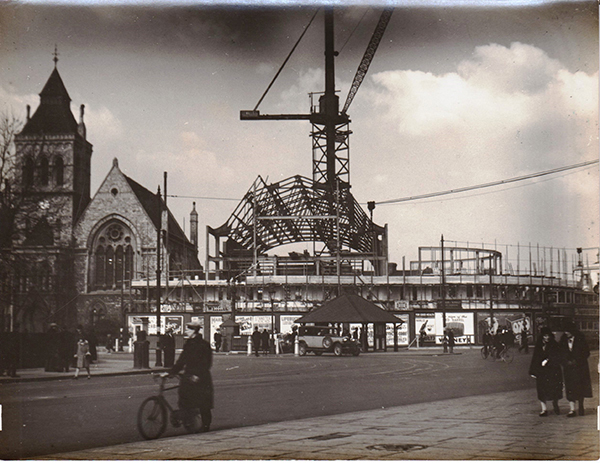
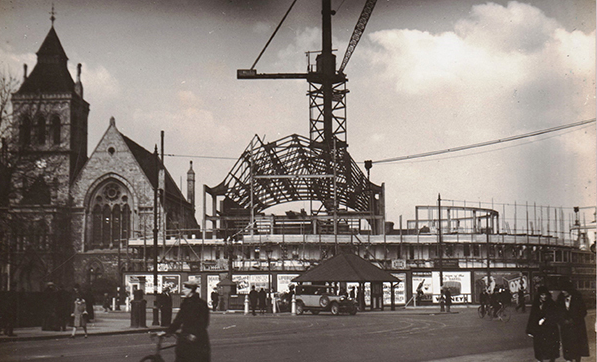
vegalite config

diff --git a/IAT355/broadwayblackout.html b/IAT355/broadwayblackout.html
@@ -6,7 +6,6 @@
     <script src="https://cdn.jsdelivr.net/npm/vega@5"></script>
     <script src="https://cdn.jsdelivr.net/npm/vega-lite@5"></script>
     <script src="https://cdn.jsdelivr.net/npm/vega-lite-api@5.6.0"></script>
-    <script src="https://cdn.jsdelivr.net/npm/vega-tooltip"></script>
     <script src="https://cdn.jsdelivr.net/npm/vega-embed@6"></script>
     <script src="https://unpkg.com/lenis@1.3.21/dist/lenis.min.js"></script>
 
@@ -73,27 +72,78 @@
     </section>
     <section id="P1">
       <p class="question-text">
-        How has the popularity of Broadway shows shifted across decades from
-        1900-2020?
+        How has the popularity of Broadway shows shifted across 1900-2020?
       </p>
       <p class="information-text">
         Broadway saw a surge in the volume of titles opened in the 1900s and
         achieved its all time peak during the 1920s, before meeting a sharp
         decline in the subsequent decades.
       </p>
-      <div id="P1-1"></div>
+
+      <div class="graph-container">
+        <div id="P1-1"></div>
+      </div>
+
+      <!-- <div class="overlay-box-container">
+          <div class="overlay-box-wrapper">
+            <div class="overlay-element">
+              <img src="src/p1-card1.png" />
+            </div>
+            <div class="overlay-element">
+              <p>
+                The surge in openings during the 1900s can be partly attributed
+                to a wave of new theaters being built in the Broadway district,
+                including the Republic in 1900, the Lyric and New Amsterdam in
+                1903, and the Lew Fields in 1904 (Gillespie).
+              </p>
+            </div>
+          </div>
+        </div> -->
     </section>
     <section id="P2">
       <p class="question-text">
-        Total showings by show type in Broadway across 2 centuries
+        Total Showings by Show Type on Broadway (1850s–2010s)
       </p>
       <p class="information-text">
         The musical is widely regarded as a "quintessentially American art form"
         (Hodge 2020, p.5), born from an amalgamation of British, French, and
         varied popular entertainment traditions.
       </p>
+      <!-- dot graph -->
       <p class="information-text">View genre by popularity (Interactive)</p>
       <div id="P2-1"></div>
+
+      <p class="question-text">
+        Guess the proportion of each show type, then reveal the actual data!
+      </p>
+      <div id="sliders">
+        <!-- prettier-ignore -->
+        <label>Musical: <input type="range" id="musical" min="0" max="100000" value="50000"> <span id="musicalVal">50000</span></label
+        ><br />
+        <!-- prettier-ignore -->
+        <label>Play: <input type="range" id="play" min="0" max="100000" value="50000"> <span id="playVal">50000</span></label
+        ><br />
+        <!-- prettier-ignore -->
+        <label>Opera: <input type="range" id="opera" min="0" max="100000" value="50000"> <span id="operaVal">50000</span></label
+        ><br />
+        <!-- prettier-ignore -->
+        <label>Revue: <input type="range" id="revue" min="0" max="100000" value="50000"> <span id="revueVal">50000</span></label
+        ><br />
+        <!-- prettier-ignore -->
+        <label>Burlesque: <input type="range" id="burlesque" min="0" max="100000" value="50000"> <span id="burlesqueVal">50000</span></label
+        ><br />
+        <!-- prettier-ignore -->
+        <label>Special: <input type="range" id="special" min="0" max="100000" value="50000"> <span id="specialVal">50000</span></label
+        ><br />
+        <!-- prettier-ignore -->
+        <label>Concert: <input type="range" id="concert" min="0" max="100000" value="50000"> <span id="concertVal">50000</span></label
+        ><br />
+      </div>
+      <label>
+        <input type="checkbox" id="revealed" /> Reveal actual data
+      </label>
+      <!-- pie chart -->
+      <div id="chart"></div>
     </section>
     <section id="P3">
       <p class="question-text">Musicals: Dominance of Original vs. Revival</p>
@@ -102,8 +152,10 @@
         throughout the 20th and 21st centuries, a trend shaped as much by
         financial calculation as artistic ambition.
       </p>
+      <!-- bar chart -->
       <div id="P3-1"></div>
     </section>
     <script defer type="module" src="main.js"></script>
+    <script src="chart.js"></script>
   </body>
 </html>

diff --git a/IAT355/chart.js b/IAT355/chart.js
@@ -1,23 +1,43 @@
- const actualData = [
-    { show_type:  "Musical",   total_performances:417539},
-    { show_type: "Play",      total_performances: 532390 },
-    { show_type: "Opera",     total_performances: 2304 },
-    { show_type: "Revue",     total_performances: 50604 },
-    { show_type: "Burlesque", total_performances: 32 },
-    { show_type: "Special",   total_performances: 4741  },
-    { show_type: "Concert",   total_performances: 1932  }
-  ];
-
+const actualData = [
+  { show_type: "Musical", total_performances: 417539 },
+  { show_type: "Play", total_performances: 532390 },
+  { show_type: "Opera", total_performances: 2304 },
+  { show_type: "Revue", total_performances: 50604 },
+  { show_type: "Burlesque", total_performances: 32 },
+  { show_type: "Special", total_performances: 4741 },
+  { show_type: "Concert", total_performances: 1932 },
+];
 
 function getGuessData() {
   return [
-    { show_type: "Musical",   total_performances: +document.getElementById("musical").value },
-    { show_type: "Play",      total_performances: +document.getElementById("play").value },
-    { show_type: "Opera",     total_performances: +document.getElementById("opera").value },
-    { show_type: "Revue",     total_performances: +document.getElementById("revue").value },
-    { show_type: "Burlesque", total_performances: +document.getElementById("burlesque").value },
-    { show_type: "Special",   total_performances: +document.getElementById("special").value },
-    { show_type: "Concert",   total_performances: +document.getElementById("concert").value }
+    {
+      show_type: "Musical",
+      total_performances: +document.getElementById("musical").value,
+    },
+    {
+      show_type: "Play",
+      total_performances: +document.getElementById("play").value,
+    },
+    {
+      show_type: "Opera",
+      total_performances: +document.getElementById("opera").value,
+    },
+    {
+      show_type: "Revue",
+      total_performances: +document.getElementById("revue").value,
+    },
+    {
+      show_type: "Burlesque",
+      total_performances: +document.getElementById("burlesque").value,
+    },
+    {
+      show_type: "Special",
+      total_performances: +document.getElementById("special").value,
+    },
+    {
+      show_type: "Concert",
+      total_performances: +document.getElementById("concert").value,
+    },
   ];
 }
 
@@ -32,23 +52,56 @@ function updateChart() {
     data: { values: data },
     encoding: {
       theta: { field: "total_performances", type: "quantitative" },
-      color: { field: "show_type", type: "nominal", title: "Show Type" },
+      color: {
+        field: "show_type",
+        type: "nominal",
+        title: null,
+      },
       tooltip: [
         { field: "show_type", title: "Show Type", type: "nominal" },
-        { field: "total_performances", title: "Total Performances", type: "quantitative" }
-      ]
+        {
+          field: "total_performances",
+          title: "Total Performances",
+          type: "quantitative",
+        },
+      ],
     },
     width: 400,
     height: 400,
-    title: "Total Showings by Show Type on Broadway (1850s–2010s)"
+    config: {
+      font: "IM Fell Double Pica, serif, sans-serif",
+      background: "#b8231e00",
+      fontSize: "3rem",
+      title: {
+        fontSize: 20,
+      },
+      legend: {
+        titleFontSize: 20,
+        titleColor: "blue",
+        fillColor: "#c2baa600",
+        labelFont: "Enriqueta",
+        labelColor: "#ffffff",
+        labelFontSize: 20,
+      },
+      line: { strokeWidth: 3 }, // Optional: make the line thicker
+      view: { stroke: "transparent" },
+    },
   };
 
   vegaEmbed("#chart", spec);
 }
 
-["musical", "play", "opera", "revue", "burlesque", "special", "concert"].forEach(id => {
+[
+  "musical",
+  "play",
+  "opera",
+  "revue",
+  "burlesque",
+  "special",
+  "concert",
+].forEach((id) => {
   const slider = document.getElementById(id);
-  slider.addEventListener("input", function() {
+  slider.addEventListener("input", function () {
     document.getElementById(id + "Val").textContent = this.value;
     updateChart();
   });

diff --git a/IAT355/style.css b/IAT355/style.css
@@ -41,6 +41,10 @@ header img {
   opacity: 0.5;
 }
 
+section {
+  min-height: 90vh;
+}
+
 /* -----------------Vegalite----------------- */
 
 #vg-tooltip-element {
@@ -195,7 +199,7 @@ header img {
   text-align: center;
   text-transform: uppercase;
   /* margin-top: 5vh; */
-  font-size: 3vh;
+  font-size: 2.5vh;
   max-width: 90%;
   transform: translateX(6%);
 }
@@ -221,6 +225,7 @@ header img {
 
 .question-text {
   font-family: "Hammersmith One", Verdana, sans-serif;
+  font-size: 2.5vh;
   /* come in from left */
   transform: translateY(-10px);
   opacity: 0;
@@ -229,7 +234,6 @@ header img {
 }
 
 .question-text.show {
-  /* translate: 0; */
   transform: translateY(0px);
   opacity: 1;
 }
@@ -239,11 +243,47 @@ header img {
   text-align: center;
 }
 
-#P1-1 {
+.graph-container {
+  height: 50vh;
   width: 80%;
+  background-color: #c2baa6;
 }
 
-.P1-card {
+/* graph */
+#P1-1 {
+  height: 100%;
+  width: 100%;
+}
+
+.overlay-box-container {
+  background-color: rgb(0, 0, 0);
+  z-index: 1;
+  height: 60%;
+  width: 15vw;
+}
+
+.overlay-box-wrapper {
+  height: 100%;
+  display: flex;
+  flex-direction: column;
+}
+.overlay-element {
+  flex: 1;
+  overflow: hidden;
+}
+.overlay-box-wrapper img {
+  width: 100%;
+  height: 100%;
+  object-fit: cover;
+  display: block;
+}
+
+.overlay-box-wrapper p {
+  font-size: 0.75rem;
+  padding: 0.5rem 1rem;
+}
+
+/* .P1-card {
   background-color: black;
   display: flex;
   border: 1px solid #cad0d2;
@@ -264,11 +304,11 @@ header img {
 }
 
 .card-wrapper img {
-  width: 100%; /* or any custom size */
+  width: 100%;
   height: 100%;
   object-fit: contain;
   display: block;
-}
+} */
 
 /* ----------------P2----------------- */
 

diff --git a/IAT355/main.js b/IAT355/main.js
@@ -80,7 +80,8 @@ fetchData().then(async (data) => {
       ]),
     )
     .width("container")
-    .height(500)
+    .height("container")
+    .autosize({ type: "fit", resize: "true" })
     .config({
       font: "IM Fell Double Pica, serif, sans-serif",
       background: "#222116",
@@ -174,7 +175,11 @@ fetchData().then(async (data) => {
     .encode(
       vl.x().fieldO("decade").title("Decade"),
       vl.y().count().title("Number of Shows"),
-      vl.color().fieldN("production_type").title("Production Type"),
+      vl
+        .color()
+        .fieldN("production_type")
+        .title("Production Type")
+        .scale({ scheme: "browns" }),
       vl.tooltip([
         { field: "decade", title: "Decade" },
         { field: "production_type", title: "Production Type" },
@@ -221,6 +226,6 @@ fetchData().then(async (data) => {
 });
 
 async function render(viewID, spec) {
-  const result = await vegaEmbed(viewID, spec);
+  const result = await vegaEmbed(viewID, spec, { actions: false });
   result.view.run();
 }
